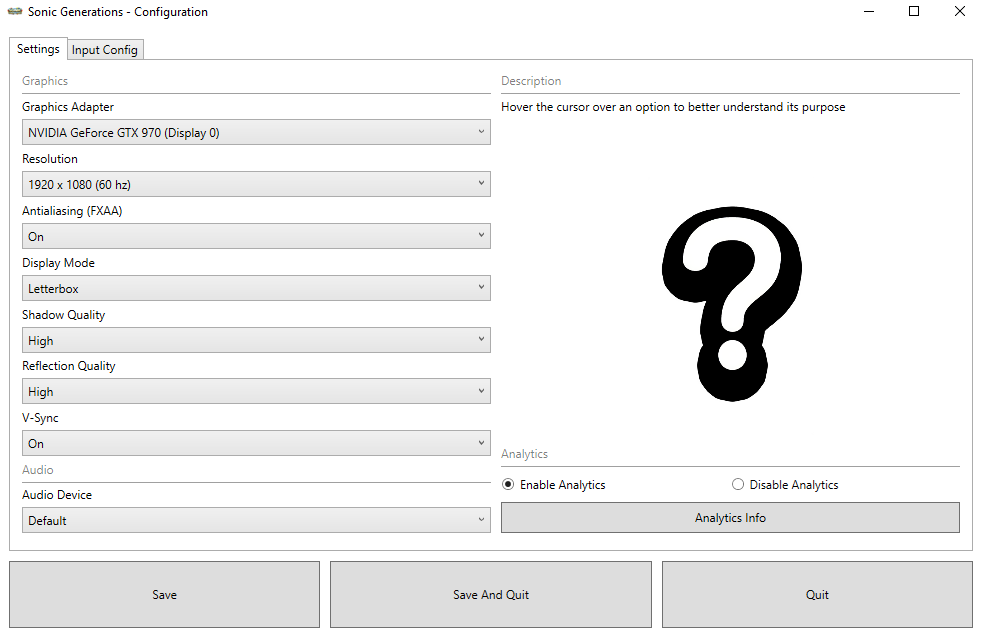
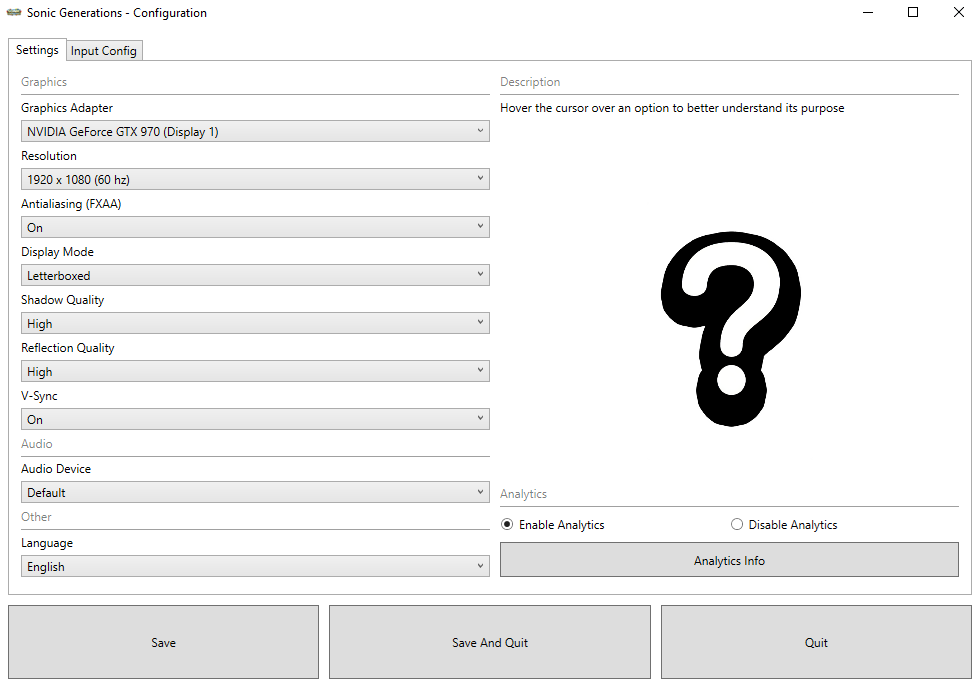
Fixed issue on configuration files and updated config image

diff --git a/GensConfigTool/Model/Configurations/GraphicsConfiguration.cs b/GensConfigTool/Model/Configurations/GraphicsConfiguration.cs
@@ -72,11 +72,11 @@ namespace ConfigurationTool.Model.Configurations
                 writer.WriteLine(config.GraphicsAdapter.Name);
                 Resolution res = config.Resolution;
                 writer.WriteLine($"{res.Width}.{res.Height}.{res.Frequency}");
-                writer.WriteLine(config.Antialiasing);
-                writer.WriteLine(config.VSync);
-                writer.WriteLine(config.ShadowQuality);
-                writer.WriteLine(config.ReflectionQuality);
-                writer.WriteLine(config.DisplayMode);
+                writer.WriteLine((int)config.Antialiasing);
+                writer.WriteLine((int)config.VSync);
+                writer.WriteLine((int)config.ShadowQuality);
+                writer.WriteLine((int)config.ReflectionQuality);
+                writer.WriteLine((int)config.DisplayMode);
                 writer.WriteLine(config.GraphicsAdapter.GUID);
                 writer.WriteLine(""); // Skip unused monitor line
                 writer.WriteLine(config.DepthFormat.GetFourCC());

diff --git a/GensConfigTool/Model/Configurations/AnalyticsConfiguration.cs b/GensConfigTool/Model/Configurations/AnalyticsConfiguration.cs
@@ -31,7 +31,7 @@ namespace ConfigurationTool.Model.Configurations
         {
             using (StreamWriter writer = new StreamWriter(ConfigLocation))
             {
-                writer.WriteLine(config.Analytics);
+                writer.WriteLine((int)config.Analytics);
             }
         }
     }
